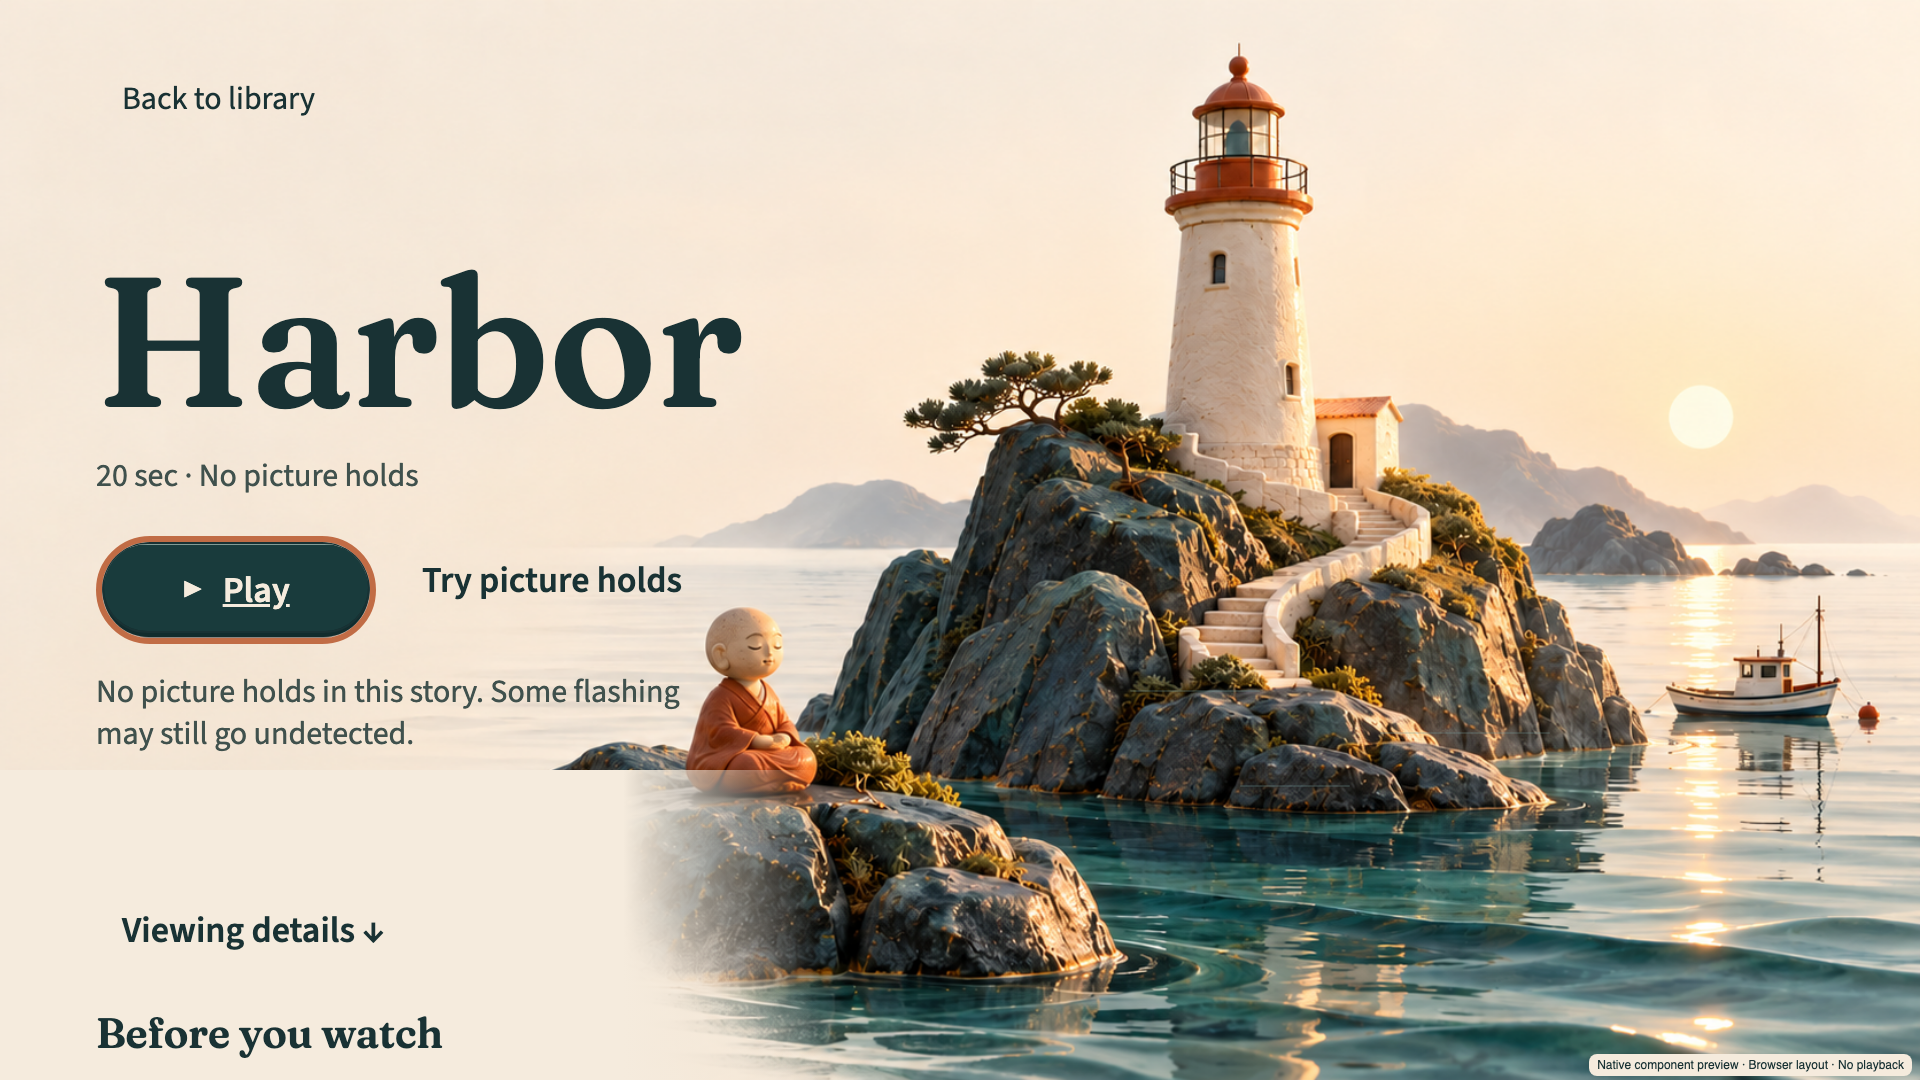
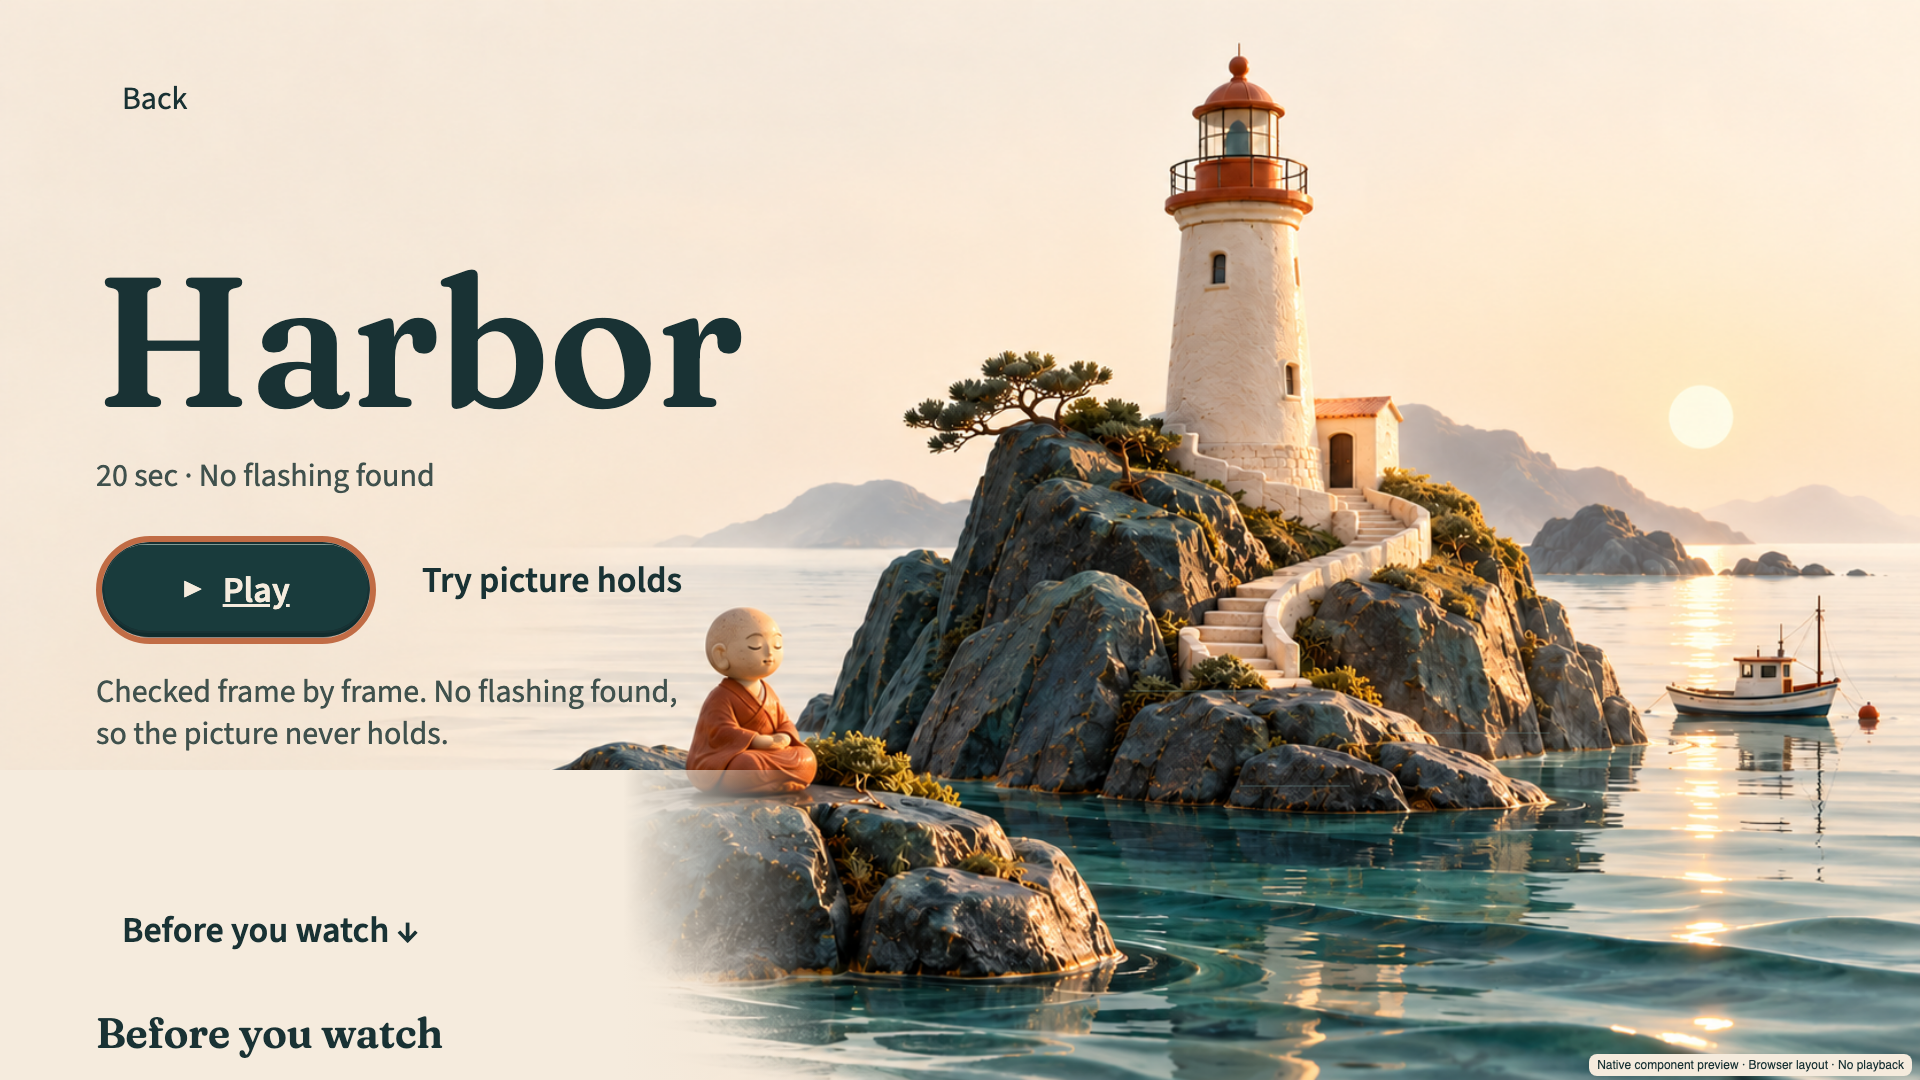
Record package 5 and its device session, and refresh the renders from the one-voice copy
Package 5 is built from 4016e8d (SHA-256 a226b39f..., 28,733,262 bytes, 736
recorded inputs) and was installed over the existing household and driven by
log on the Vega Virtual Device: cold launch onto Home with Play focused, every
press landing on a known control, Details with the practice entry beside
Play, Harbor to its end with zero holds, the demo page and both holds with
the still, Back one level at a time, How it works, the Parents gate and a
relaunch onto the saved Home. Two verdicts are read against the log: the
device's log limiter dropped the "screen home" breadcrumb at launch, and the
player leaves on its own when a film ends. The receipt is
results/native-acceptance-5-2026-10-14/receipt.json.

The README's Home and Details renders come from the one-voice commit, with
their receipt; the handoff, the changelog and the status page carry package
5 and the copy change.

diff --git a/FINAL_HANDOFF.md b/FINAL_HANDOFF.md
@@ -13,18 +13,35 @@ twice, without any screenshot, video or capture.
 | What | Value |
 |---|---|
 | Branch | `claude/final-candidate-2026-10-14`, worktree `/Users/alexvintera/calm-frames-claude-final-2026-10-14` |
-| Package source commit | `819de405ddf8e2d45526f978fc33d6a6ca977d5b` (`819de40`), the last commit that changes an app input: the simplified Home, the practice entry on Details and the bordered icon; the commits after it are the friction log, renders and this documentation (`git diff --stat 819de40 HEAD -- app/` is empty) |
-| Package | `build/release/final-candidate-4-2026-10-14/calm-frames-0.1.0-aarch64-debug.vpkg`, aarch64 Debug, 28,731,853 bytes (build output outside git, in the worktree above) |
[2 lines of base64/hex data omitted]
-| Tested on the device | This exact package, installed over the existing household with `vega device install-app`; no uninstall, no data reset, no PIN entered. Receipt: [`results/native-acceptance-4-2026-10-14/receipt.json`](results/native-acceptance-4-2026-10-14/receipt.json). The previous package's session: [`results/native-acceptance-2026-10-14/receipt.json`](results/native-acceptance-2026-10-14/receipt.json) |
-| Receipt recheck | Package 3 was rechecked at `52235a7` (736 inputs bound). Package 4 needs none yet: no commit after `819de40` touches `app/` |
+| Package source commit | `4016e8dac8f675a4eb1e1613fd9dc7cf63d06e58` (`4016e8d`), the last commit that changes an app input: the one-voice copy on every screen, on top of `819de40` (the simplified Home, the practice entry on Details, the bordered icon); the commits after it are renders and this documentation |
+| Package | `build/release/final-candidate-5-2026-10-14/calm-frames-0.1.0-aarch64-debug.vpkg`, aarch64 Debug, 28,733,262 bytes (build output outside git, in the worktree above) |
[2 lines of base64/hex data omitted]
+| Tested on the device | This exact package, installed over the existing household with `vega device install-app`; no uninstall, no data reset, no PIN entered. Receipt: [`results/native-acceptance-5-2026-10-14/receipt.json`](results/native-acceptance-5-2026-10-14/receipt.json). Package 4's two sessions: [`results/native-acceptance-4-2026-10-14/receipt.json`](results/native-acceptance-4-2026-10-14/receipt.json) and [`second-pass.json`](results/native-acceptance-4-2026-10-14/second-pass.json); package 3's: [`results/native-acceptance-2026-10-14/receipt.json`](results/native-acceptance-2026-10-14/receipt.json) |
+| Receipt recheck | Package 3 was rechecked at `52235a7` (736 inputs bound). Packages 4 and 5 need none yet: no commit after their sources touches `app/` |
 | Build route | `source ~/vega/env`, fnm Node 22 and the watchman fallback shim on `PATH`, `JAVA_HOME=/opt/homebrew/opt/openjdk@21`, `DEMO_PIN` unset, then `RELEASE_PYTHON=/Users/alexvintera/calm-frames/.venv/bin/python bash scripts/release.sh --arch aarch64 --build-type Debug --tag final-candidate-3-2026-10-14`. The helper printed its publication command and it was not run |
-| Earlier packages, preserved | `final-candidate-3-2026-10-14` from `ac5a610` (`4d36c177…`, driven on the device in the first Oct 14 session), `final-candidate-2026-10-14` from `93cf800` (`d53444ab…`) and `final-candidate-2-2026-10-14` from `52138fe`; Codex's `approved-coastal-b22d275-2026-10-14` in the coastal worktree |
-| Lineage | `cfddc4a` (reliability) → `b22d275` (Codex: approved coastal interface) → the submission packet and the illustrated harbor ledger → `58bd1a7` (coastal artwork ledgered, credits regenerated) → `53ab01b` (hook mirror) → `93cf800` (coastal menus held to the ten foot floors) → `204f185` (debug breadcrumbs) → `487e5e5` (Back one level at a time in setup, the picker and the removal question) → `52138fe` (bundled copies of the practice stills) → `69390ed` (README opens on the coast) → `ac5a610` (opening readies on a moving clock) → `d7e13be` (documented checks runnable from a fresh checkout) → the judge-path fixes and this documentation → `819de40` (the simplified Home, the practice entry on Details, the bordered icon and tile) → `111ff12` (friction log 41 to 43, renders) → this documentation |
+| Earlier packages, preserved | `final-candidate-4-2026-10-14` from `819de40` (`471770fb…`, driven twice on the device), `final-candidate-3-2026-10-14` from `ac5a610` (`4d36c177…`, driven once), `final-candidate-2026-10-14` from `93cf800` (`d53444ab…`) and `final-candidate-2-2026-10-14` from `52138fe`; Codex's `approved-coastal-b22d275-2026-10-14` in the coastal worktree |
+| Lineage | `cfddc4a` (reliability) → `b22d275` (Codex: approved coastal interface) → the submission packet and the illustrated harbor ledger → `58bd1a7` (coastal artwork ledgered, credits regenerated) → `53ab01b` (hook mirror) → `93cf800` (coastal menus held to the ten foot floors) → `204f185` (debug breadcrumbs) → `487e5e5` (Back one level at a time in setup, the picker and the removal question) → `52138fe` (bundled copies of the practice stills) → `69390ed` (README opens on the coast) → `ac5a610` (opening readies on a moving clock) → `d7e13be` (documented checks runnable from a fresh checkout) → the judge-path fixes and this documentation → `819de40` (the simplified Home, the practice entry on Details, the bordered icon and tile) → `111ff12` (friction log 41 to 43, renders) → this documentation → `4016e8d` (one voice for the words) → this documentation |
 | Previews | Static component export at `819de40`: <http://127.0.0.1:4176/> (served from `build/coastal-preview` in this worktree, pid in `.logs/final/preview-4176.pid`; regenerate with `cd app && npx jest --ci --watchman=false --coverage=false test/calmframes/coastalExport.test.tsx && cd .. && .venv/bin/python eval/preview/coastal_preview.py`). <http://127.0.0.1:4174/> is Codex's older export served from its own directory and <http://127.0.0.1:4175/> its water study; both left running. Browser previews, not device captures |
 
 ## 2. What changed, and the checks
+
+**One voice for the words (`4016e8d`, later on Oct 14):** Alex found the
+wording incohesive and padded. A picture hold is now the mechanism on every
+screen: the cards ("Picture hold coming up", "Holding the picture", "Held the
+picture for 4 seconds"), the timeline key, the parent area's record ("Picture
+holds", "3 holds, 12 seconds in all"), the room and profile rules, the chime
+row, the presets and the first run explainer; "the picture stays hidden" is
+the one phrase for a video that may not play; "video" is the word for content.
+Buttons say what they open: How it works and Parents in the Home header, Back,
+Play demo, Before you watch. Details says the check's result once in the hero
+("20 sec · No flashing found", "Checked frame by frame. No flashing found, so
+the picture never holds.") and Before you watch carries only the limit of
+detection, the timeline, the settings and the approved sentence; How it works
+is four lines beginning with who the app is for. The full app suite passes
+on it (133 suites, 1310 tests), typecheck and lint are clean, the hook mirror
+is re-synced, and the browser renders are regenerated from it. The label
+table is in `docs/design/COPY_GUIDE.md`.
 
 **Simplified at Alex's request (`819de40`, late Oct 14):** Home is one heading,
 "Calm Frames", at 120 units on one line (measured: 755 units wide in the
@@ -117,6 +134,30 @@ Method: the Debug package's own breadcrumbs and media events, read from
 device's `inputd-cli`. No pixels were seen and no audio was heard; "pass" means
 the app reported the journey happening. Details and the open items are in the
 receipts.
+
+### Package 5 (`4016e8d`, one voice for the words), later on Oct 14
+
+Receipt: `results/native-acceptance-5-2026-10-14/receipt.json`, the same
+driver and the same running device as package 4's sessions; the focus ids it
+steers by did not change with the words.
+
+| Journey | Result | What the app reported |
+|---|---|---|
+| J1 cold launch reaches Home with Play focused | observed-pass | first screen=[] first focus=['kid-mode-home-watch'] now screen=None focus=kid-mode-home-watch running=True touch events injected on the device after launch=0 |
+| J2 remote reaches Home controls and nothing removed takes focus | observed-pass | focus ids seen=['kid-mode-home-choose-profile', 'kid-mode-home-learn', 'kid-mode-home-more-info', 'kid-mode-home-parent-area', 'kid-mode-home-watch'] unexpected=[] removed seen=[] |
+| J3 Details opens on Play, Try picture holds sits beside it, Back restores focus to Details | observed-pass | reached=True screen=details focus=kid-mode-details-play right of Play=kid-mode-details-practice after Back screen=home focus=kid-mode-home-more-info |
+| J4 Home to Play: ordinary Harbor plays to the end with zero holds | observed-pass | playing=True ended=True interval covers=0 recovery screen=False after Back screen=player-left', focus=kid-mode-home-watch |
+| J5 Details to practice: the demo page, both holds with the calm still, Back one level at a time | observed-pass (the driver said observed-partial; see below) | reached practice entry=True demo page screen=details focus=kid-mode-details-play covers=['cover-on media=5034 interval 5000-9000', 'cover-on media=12007 interval 12000-16000'] stills=['still loaded', 'still loaded', 'still loaded', 'still loaded'] recovery=False Back1=("player-left',", 'kid-mode-details-practice') Back2=('home', 'kid-mode-home-more-info') Back3=('home', 'kid-mode-home-more-info') |
+| J6 Help opens and Back returns to Help | observed-pass | reached Help=True focus in Help=picture-hold-start after Back screen=home focus=kid-mode-home-learn |
+| J7 Settings opens its PIN gate and Back returns to Home | observed-pass | reached Settings=True screen=parent focus=kid-mode-parent-key-1 after Back screen=home focus=kid-mode-home-more-info; interior blocked: needs the household PIN |
+| J8 relaunch lands on the saved Home, no setup | observed-pass | screen=home focus=kid-mode-home-watch running=True touches in session=0 |
+
+Where a verdict reads "the driver said": the cold launch wanted the "screen
+home" breadcrumb as well as the focus breadcrumb, and the device's log limiter
+dropped the screen line (friction log entry 12); the first focus after launch
+was Play on Home with the app running, which is what the first session judged
+by. Pause and resume, the remote seek and the caption control were observed on
+package 4 (its second pass) and the player code did not change since.
 
 ### 3a. Package 4 (`819de40`, the simplified Home), late Oct 14
 

diff --git a/CHANGELOG.md b/CHANGELOG.md
@@ -31,6 +31,7 @@ to origin on Oct 14 and not merged anywhere; `FINAL_HANDOFF.md` has the package.
 
 #### Changed
 
+- One voice for the app's words: a picture hold is the mechanism everywhere (the cards, the timeline key, the parent area's record, the room and profile rules, the chime, the presets); "the picture stays hidden" stays the one phrase for a video that may not play; buttons say what they open (How it works and Parents in the Home header, Back, Play demo, Before you watch); Details says the check's result once and How it works is four lines, starting with who the app is for. (4016e8d)
 - Home is one heading, "Calm Frames", over the coast with Play and Details under it and Help and Settings in the header; the title's length and hold line, the explanation sentence, the Try picture holds card and the notice about titles held back are gone from it. Details carries the facts and offers the practice demo beside Play, opening the demo's own page; Back returns one level at a time, to the page that opened it with focus on that entry, then to Home with focus on Details. (819de40)
 - The launcher icon and the Fire TV tile carry a warm-sand inset border, one percent of the height in from every edge, drawn by the brand generator and re-rendered through the same route; the brand flash check was re-run on all thirteen images. (819de40)
 - Every menu screen paints the approved ivory coast with the dimensional coastal artwork; playback keeps its dark controls. (b22d275)

diff --git a/README.md b/README.md
@@ -18,7 +18,7 @@ Calm Frames reduces exposure to flashing above published limits in the videos it
 |---|
 | ![Browser render of the coastal Details for Harbor: the artwork, the title, 20 sec · No flashing found, Play with its triangle and the quiet Try picture holds entry beside it, the viewing settings and Back to library](results/coastal-renders-2026-10-14/details.png) |
 
-<sub>Browser renders of the app's own React Native trees with the bundled fonts and artwork, exported from commit 819de40 ([render receipt](results/coastal-renders-2026-10-14/receipt.json)). They are review aids, not Vega screenshots; the native acceptance of this interface is in progress. The shelf holds two Harbors on purpose, one that plays straight through and one with two labelled practice holds, and the calm gradient is the playback test. The palette, type, contrast and motion rules are on [the design page](docs/design/README.md).</sub>
+<sub>Browser renders of the app's own React Native trees with the bundled fonts and artwork, exported from commit 4016e8d ([render receipt](results/coastal-renders-2026-10-14/receipt.json)). They are review aids, not Vega screenshots; the native acceptance of this interface is in progress. The shelf holds two Harbors on purpose, one that plays straight through and one with two labelled practice holds, and the calm gradient is the playback test. The palette, type, contrast and motion rules are on [the design page](docs/design/README.md).</sub>
 
 ---
 

diff --git a/docs/STATUS.md b/docs/STATUS.md
@@ -4,6 +4,24 @@ Updated Oct 14, 2026.
 
 ## 0. Where things stand
 
+### Oct 14, later: one voice for the words, package 5
+
+Alex found the app's wording incohesive and padded. `4016e8d` settles one
+vocabulary and applies it on every screen: a picture hold is the mechanism
+(the cards say "Picture hold coming up", "Holding the picture", "Held the
+picture for 4 seconds"; the parent area's record is "Picture holds"); "the
+picture stays hidden" is the one phrase for a video that may not play;
+"video" is the word for content; the Home header says How it works and
+Parents instead of Help and Settings; Back is one word; the demo's action is
+Play demo. Details says the check's result once ("20 sec · No flashing
+found", "Checked frame by frame. No flashing found, so the picture never
+holds.") and Before you watch carries only the limit of detection, the
+timeline, the settings and the approved sentence; How it works is four lines
+beginning with who the app is for. The full app suite passes (133 suites,
+1310 tests), typecheck and lint are clean, the hook mirror is re-synced and
+the documents use the new names. Package 5 is built from `4016e8d`; its
+device session is recorded in `FINAL_HANDOFF.md` when it has run.
+
 ### Oct 14, late: Home simplified at Alex's request, the candidate published, package 4 driven
 
 Codex ran out of usage and Claude took over its handoff. Alex asked for a Home
